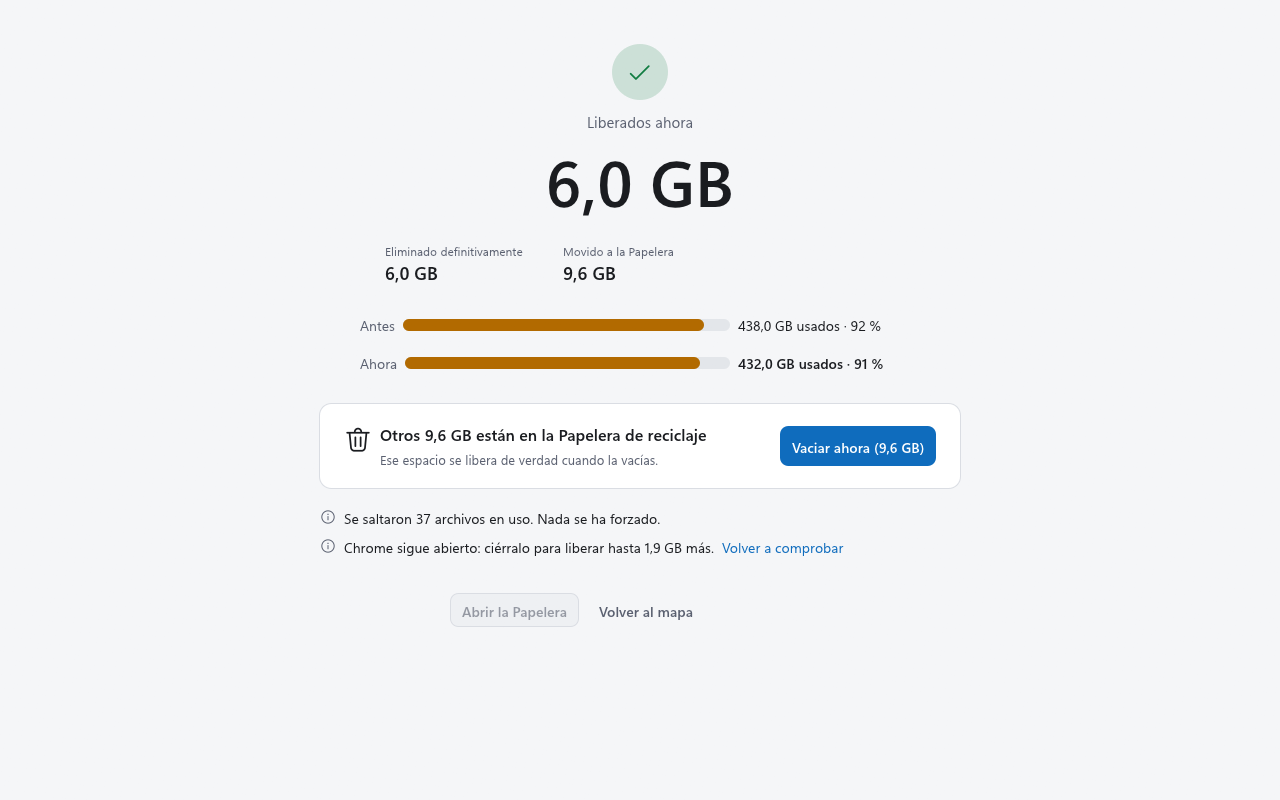
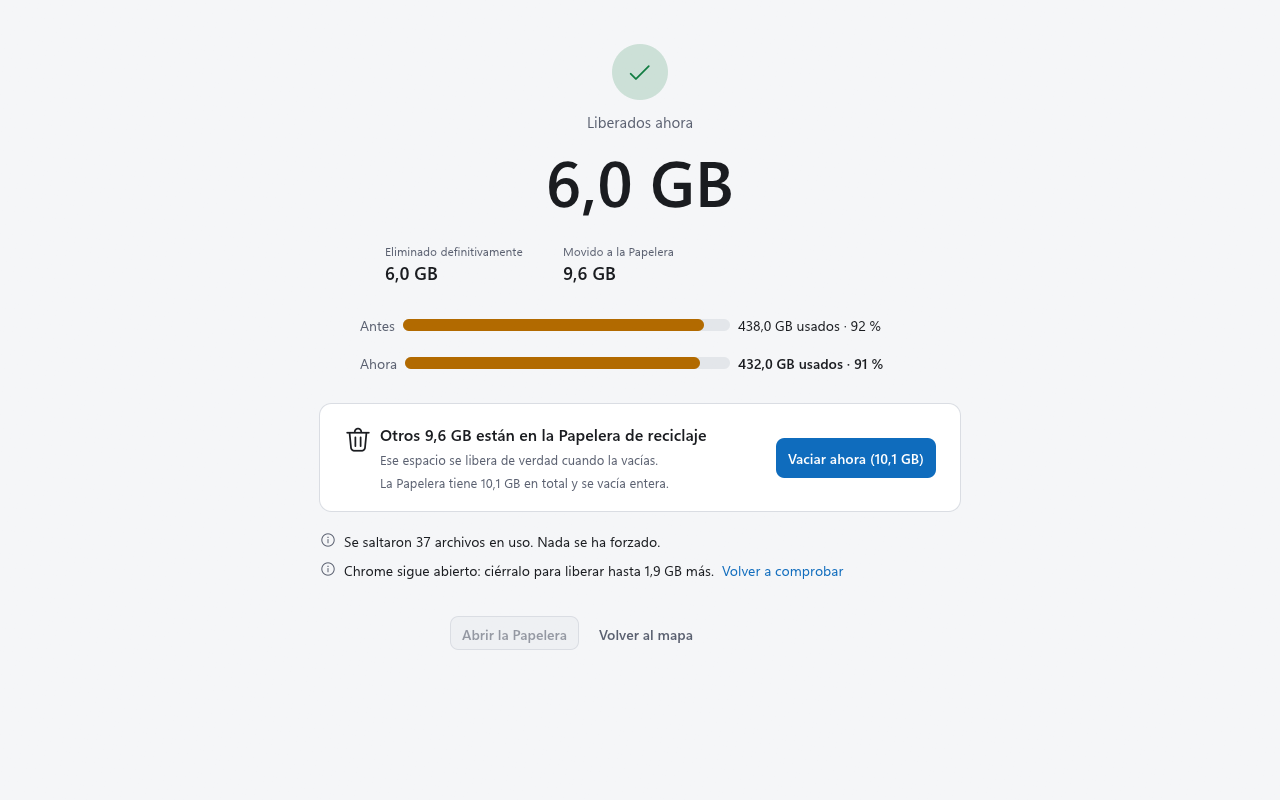
docs: README y capturas de Confirmacion y Resumen al dia con el cierre de la Papelera por identidad

diff --git a/README.md b/README.md
@@ -16,7 +16,7 @@ Analizador visual de espacio en disco para Windows, escrito en Rust: rápido, li
 
 ## Uso
 
-Windows 10 22H2 y Windows 11. La aplicación **solo borra o mueve lo que aprobaste en la confirmación** (nunca al escanear, ni en `--demo`). Guarda sus ajustes en `%APPDATA%\Tesela\config.toml` y en `%LOCALAPPDATA%\Tesela` un registro de cada limpieza (`limpieza-<fecha>.jsonl`: ruta, identidad y resultado de cada elemento; solo en tu equipo, se conservan los últimos 30) y `history.jsonl` con resúmenes (fecha, unidad y cifras, sin rutas). El historial se borra desde Ajustes.
+Windows 10 22H2 y Windows 11. La aplicación **solo borra o mueve lo que aprobaste en la confirmación** (nunca al escanear, ni en `--demo`). Guarda sus ajustes en `%APPDATA%\Tesela\config.toml` y en `%LOCALAPPDATA%\Tesela` un registro de cada limpieza (`limpieza-<fecha>.jsonl`: ruta, identidad y resultado de cada elemento; solo en tu equipo, se conservan los últimos 30 y se vuelca a disco tras cada elemento) y `history.jsonl` con resúmenes (fecha, unidad y cifras, sin rutas). "Borrar el historial", en Ajustes, borra ambos.
 
 ```powershell
 tesela                      # pantalla de inicio: elige una unidad o "Analizar una carpeta…"
@@ -44,8 +44,8 @@ El modo `--demo` es el único con el que se hacen capturas y pruebas: todo lo qu
 
 - **Recomendaciones:** temporales del usuario y de Windows (solo lo de más de 24 h), cachés de Edge, Chrome y Firefox (con el navegador cerrado), y, como **Revisar**, Descargas y la Papelera. `pagefile.sys`, `hiberfil.sys` y `swapfile.sys` solo se explican. "Puedes liberar X sin riesgo" suma **solo** lo Seguro, y es una estimación: la cifra buena la mide la limpieza.
 - **Todo pasa por la cesta y una confirmación** que agrupa por destino: lo regenerable se **borra** (se vuelve a crear solo) y tus archivos van a la **Papelera**. Lo que no cabe en la Papelera sale aparte, en ámbar, y solo se elimina si lo marcas expresamente. Los cinco archivos tuyos más grandes se nombran siempre.
-- **Protegido:** Windows, Archivos de programa, `AppData` entero, las carpetas clave del perfil (solo se limpia su contenido), el propio Tesela y lo que no se pueda comprobar. Se ve con candado y borde punteado y no se puede añadir.
-- **Borrado seguro:** se comprueba la identidad de cada elemento (volumen, id de archivo y enlaces) justo antes de tocarlo, se abre en exclusiva y se borra por handle, sin entrar nunca en puntos de reparse (junctions, enlaces simbólicos); un enlace duro no cuenta como liberado. Lo que está en uso se **salta**, no se fuerza.
+- **Protegido:** Windows, Archivos de programa, `AppData` entero, las carpetas clave del perfil (solo se limpia su contenido), el propio Tesela (aunque esté dentro del temporal) y lo que no se pueda comprobar. Solo se limpian **unidades locales**: una ruta de red, aunque apunte a un disco de tu propio equipo (con `localhost` y su compartición administrativa), se rechaza. Se ve con candado y borde punteado y no se puede añadir.
+- **Borrado seguro:** se comprueba la identidad de cada elemento (volumen, id de archivo y enlaces) justo antes de tocarlo, se abre en exclusiva y se borra por handle, sin entrar nunca en puntos de reparse (junctions, enlaces simbólicos); un enlace duro no cuenta como liberado. Lo que está en uso se **salta**, no se fuerza. Lo que va a la Papelera se comprueba igual, se suelta el handle y se entrega a Windows **por su ruta original** (sin renombrarlo antes): Windows avisa de lo que ha pasado con cada elemento y Tesela compara la **identidad** de lo que llegó a la Papelera con la aprobada. Si alguien lo sustituyó justo en medio, lo que llega es otro objeto: se te dice y se puede restaurar desde la Papelera. Si no cabía, Windows lo elimina y también se te dice. Mientras se ejecuta, cerrar la ventana se bloquea ("Espera a que termine o cancela").
 - **"Liberado ahora"** es lo que ha cambiado de verdad en el espacio libre de la unidad; lo enviado a la Papelera se cuenta aparte, porque no libera hasta que se vacía.
 - El árbol se actualiza **sin reescanear** (los histogramas quedan marcados como aproximados hasta reescanear).
 

diff --git a/docs/img/README.md b/docs/img/README.md
@@ -18,5 +18,5 @@ El hash va con la imagen: si cambia un solo byte hay que volver a registrarla (`
 - mapa-claro.png | sha256: 53875e4cd8c00b57935cbf10a614a9a3f49430c663aefbeade01cf72ec10067c | `cargo run -p tesela-app --features capture -- --demo --screen map --open Users/usuario --select Descargas --theme light --lang es --size 1280x800 --screenshot docs/img/mapa-claro.png --overwrite`
 - mapa-oscuro.png | sha256: b3a431728b860853484cb70a339f5398fb11165cb3cb46d0193262e96e7f9c66 | `cargo run -p tesela-app --features capture -- --demo --screen map --theme dark --lang es --size 1280x800 --screenshot docs/img/mapa-oscuro.png --overwrite`
 - recomendaciones.png | sha256: 1392d5ff921dba0138300cb4755f2edb8333502ba95dfe3e719f44483e43dac1 | `cargo run -p tesela-app --features capture -- --demo --screen recs --theme light --lang es --size 1280x800 --screenshot docs/img/recomendaciones.png`
-- confirmacion.png | sha256: df8dd2a6d419bbe661a161e0c8b0d9002fde9e84d8f0edcbfbddebf41f02ed3c | `cargo run -p tesela-app --features capture -- --demo --screen confirm --theme light --lang es --size 1280x800 --screenshot docs/img/confirmacion.png`
-- resumen.png | sha256: 64f7d14a990044197b08095f1eb6e8323be322bf178838c4cd0568e3454406bf | `cargo run -p tesela-app --features capture -- --demo --screen summary --theme light --lang es --size 1280x800 --screenshot docs/img/resumen.png`
+- confirmacion.png | sha256: 08db178df8af19d6c64480e6f7e0752f3885e9f92b1b3ce9f688dfdb1c6e7cc0 | `cargo run -p tesela-app --features capture -- --demo --screen confirm --theme light --lang es --size 1280x800 --screenshot docs/img/confirmacion.png`
+- resumen.png | sha256: 4114a563bbbf12aa10d8c57cf1138f0df723efa259feea22a0b40a33796ad067 | `cargo run -p tesela-app --features capture -- --demo --screen summary --theme light --lang es --size 1280x800 --screenshot docs/img/resumen.png`
